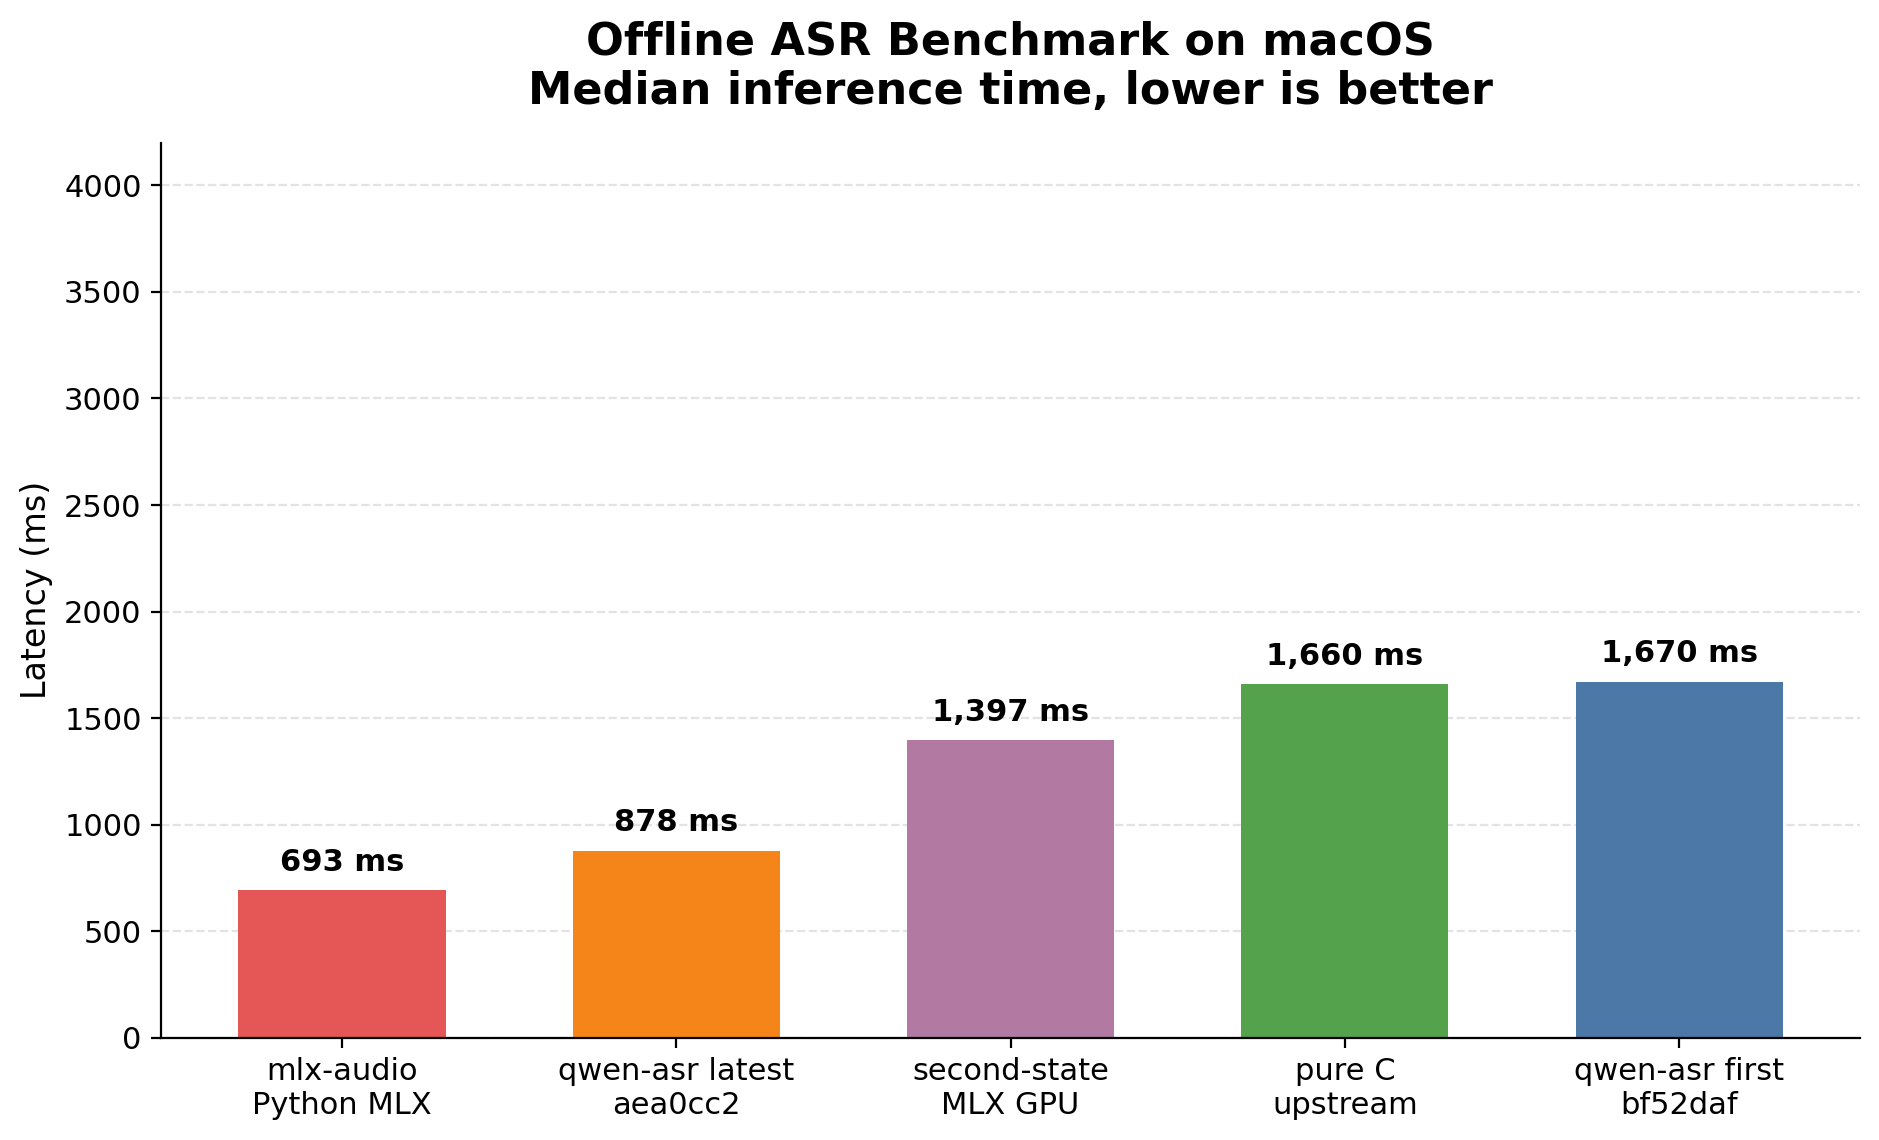
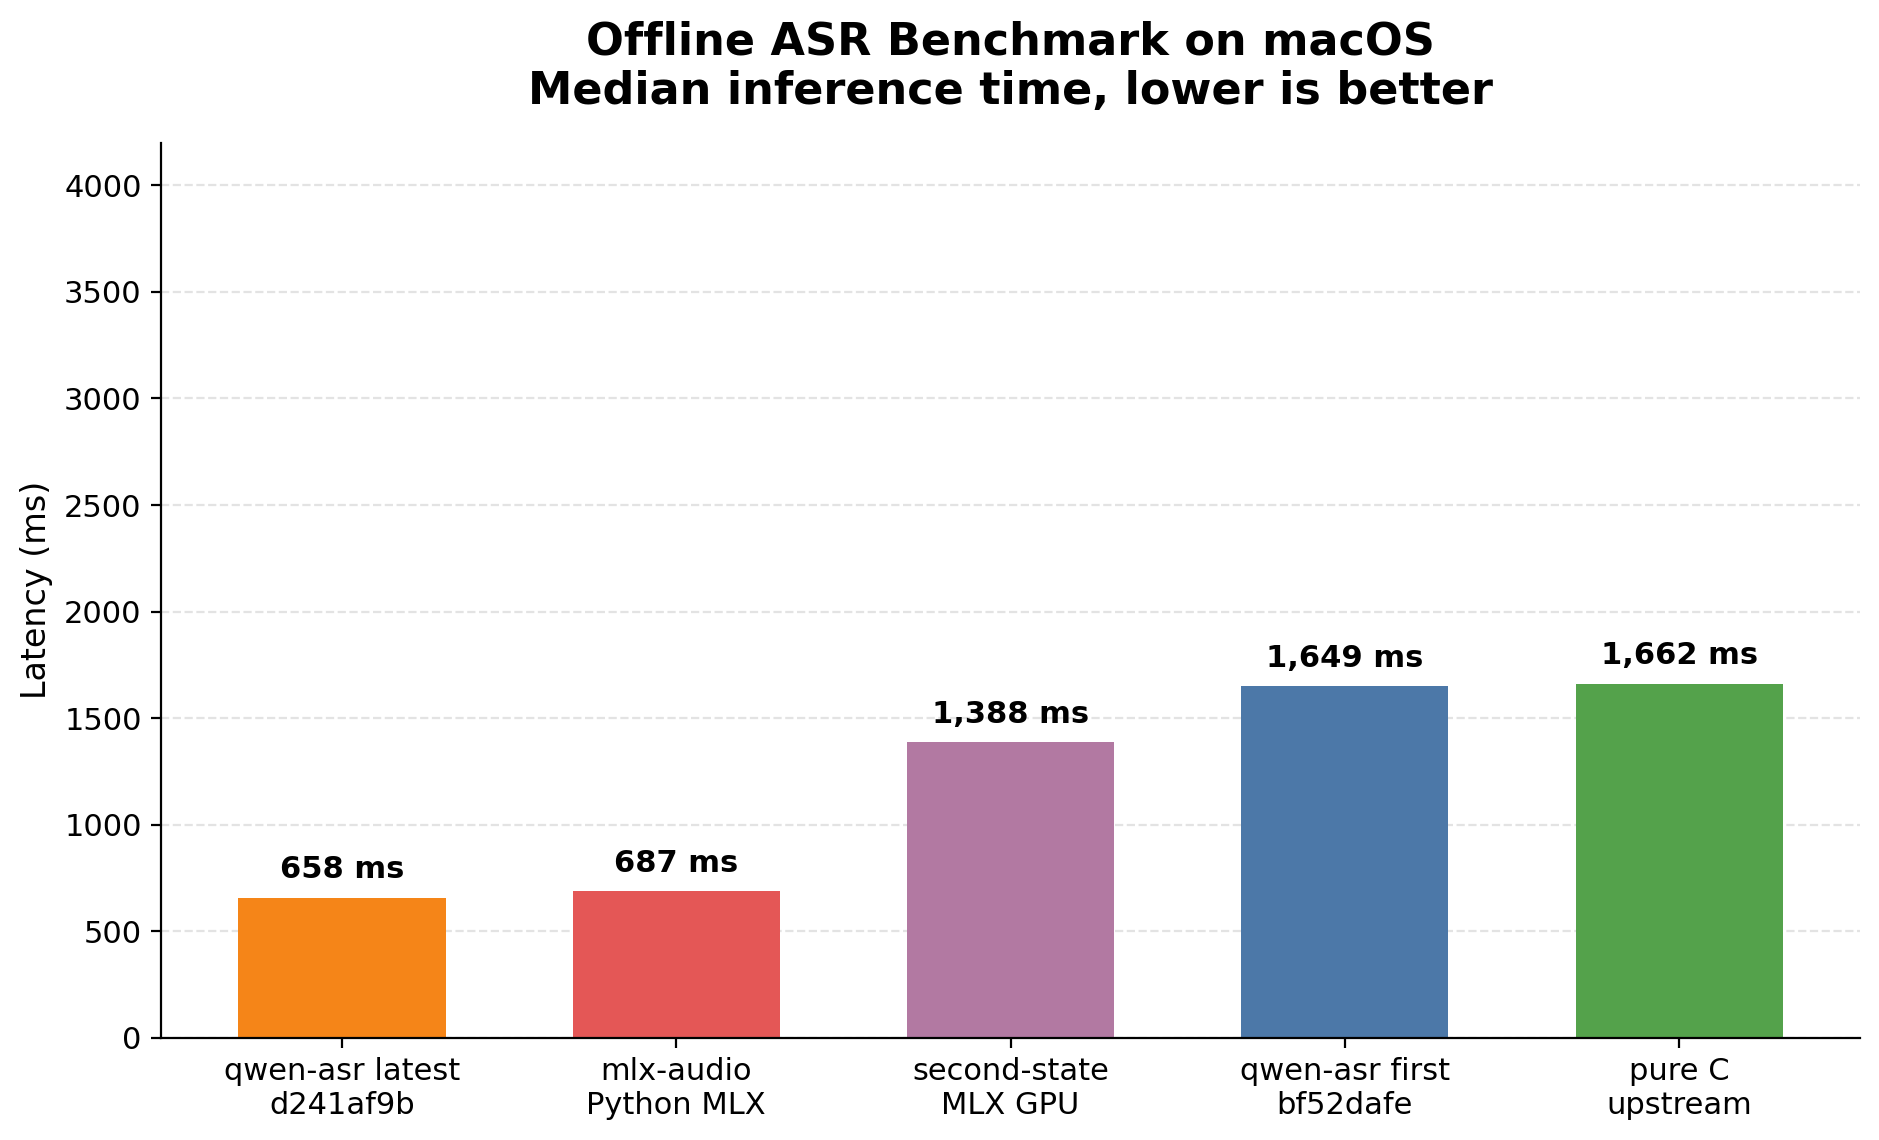
docs: refresh all benchmarks at d241af9b (round 11 results)
Re-ran every benchmark on the current HEAD and updated the docs and
charts to match:
- Dedicated speed bench (runs=10): offline 563 ms / 50.09x, segmented
  572 ms / 49.30x, streaming 544 ms / 51.89x; sample WER now 0.0000
  offline/segmented (exact reference match), 0.2973 streaming.
- LibriSpeech dev-clean-2 100-file offline: corpus WER 0.0357,
  macro 0.0388, CER 0.0142 (post-INT4 value, inside the 0.0358 gate).
- Full cross-implementation run (20260711T145612Z, runs=10, -t 15):
  qwen-asr is now the fastest implementation overall at 658 ms median,
  ahead of mlx-audio MLX GPU (687 ms), 2.1x faster than second-state
  MLX, and 2.5x faster than upstream C. Charts and report.md
  regenerated by bench/benchmark-all.sh.
- README performance section, comparison.md, results.md (incl. fresh
  kernel profile), and the optimizations overview header updated;
  stale a7470a2/aea0cc2 claims corrected or marked historical.

Claude-Session: https://claude.ai/code/session_01FWziBqwDQmdnUK1g3YgVqo

diff --git a/docs/benchmarks/comparison.md b/docs/benchmarks/comparison.md
@@ -31,15 +31,15 @@ Output: `bench/compare-results/<timestamp>/` with `report.md`, `summary.json`, c
 
 ## Current qwen-asr HEAD
 
-> Generated on: 2026-07-08
-> Commit: `aea0cc2`
+> Generated on: 2026-07-11
+> Commit: `d241af9b`
 > Runs: 10
 
 | Mode | Median inference ms | Mean ms | Best ms | Realtime factor |
 |---|---:|---:|---:|---:|
-| offline | 800 | 810.1 | 784 | 35.25× |
-| segmented | 794 | 799.1 | 783 | 35.52× |
-| streaming | 773 | 772.9 | 759 | 36.48× |
+| offline | 563 | 568.8 | 557 | 50.09× |
+| segmented | 572 | 570.4 | 559 | 49.30× |
+| streaming | 544 | 544.3 | 531 | 51.89× |
 
 Previous dedicated benchmark (`a7470a2`, full-transcript fix not yet applied in the saved run):
 
@@ -49,7 +49,7 @@ Previous dedicated benchmark (`a7470a2`, full-transcript fix not yet applied in 
 | segmented | 448 | 448.0 | 434 | 62.88× |
 | streaming | 496 | 496.0 | 480 | 56.91× |
 
-The current numbers are slower because the decoder now emits the full transcript. The saved `a7470a2` cross-implementation result stopped after 27 tokens (`WER=0.4324` on the speed sample); the current offline and segmented runs emit 46 tokens and score `WER=0.0270` on the same sample.
+The saved `a7470a2` result stopped after 27 tokens (`WER=0.4324` on the speed sample) and is kept only as historical context. As of Round 11 (`d241af9b`) the full 46-token transcript is produced *and* the offline median (563 ms) is faster than that truncated run — the current offline/segmented transcripts match the sample reference exactly (`WER=0.0000`).
 
 > Note: the `1d677db` fix removed the remaining punctuation/token-count early stop, so post-fix speed numbers are not directly comparable to earlier truncated rows.
 
@@ -57,31 +57,31 @@ See [`results.md`](./results.md) for the full speed-benchmark page.
 
 ## Latest Cross-Implementation Results
 
-> Generated on: 2026-07-08 from `bench/compare-results/20260708T055239Z/`
+> Generated on: 2026-07-11 from `bench/compare-results/20260711T145612Z/`
 > Runs per target: 10
 > Hardware: Apple M5 Pro, 15 cores, 48 GB RAM, macOS 26.4
-> Versions: upstream C `main`, second-state `v0.2.0` (`0226270`), mlx-audio `v0.4.4`
+> Versions: upstream C `main` (`b00b789`), second-state `v0.2.0` (`0226270`), mlx-audio `v0.4.5`
 > Results are sorted by median inference latency (fastest first).
 
 | Implementation | Commit / Version | Median inference ms | Mean ms | Best ms | RTF |
 |---|---:|---:|---:|---:|---:|
-| mlx-audio Python MLX | `0.4.4` | 693 | 753 | 679 | 40.66× |
-| qwen-asr (latest full comparison) | `aea0cc2` | 878 | 1,475 | 846 | 32.10× |
-| second-state MLX GPU | `0226270` (v0.2.0) | 1,397 | 1,515 | 1,377 | 20.16× |
-| pure C upstream | `b00b789` | 1,660 | 1,668 | 1,645 | 16.97× |
-| qwen-asr (first) | `bf52daf` | 1,670 | 1,783 | 1,656 | 16.88× |
+| qwen-asr (latest) | `d241af9b` | 658 | 668 | 629 | 42.86× |
+| mlx-audio Python MLX | `0.4.5` | 687 | 750 | 682 | 40.97× |
+| second-state MLX GPU | `0226270` (v0.2.0) | 1,388 | 1,466 | 1,378 | 20.29× |
+| qwen-asr (first) | `bf52daf` | 1,649 | 1,651 | 1,630 | 17.10× |
+| pure C upstream | `b00b789` | 1,662 | 1,661 | 1,637 | 16.94× |
 
-> **Note:** the cross-implementation run passes `--threads 15` to every implementation, while the dedicated speed benchmark uses the binary default. The dedicated benchmark reports `800 ms` / `35.25×` for qwen-asr latest offline; the full comparison reports `878 ms` / `32.10×`. Both current runs use `aea0cc2` and produce the full transcript.
+> **Note:** the cross-implementation run passes `--threads 15` to every implementation, while the dedicated speed benchmark uses the binary default (12 on this machine). The dedicated benchmark reports `563 ms` / `50.09×` for qwen-asr latest offline; the full comparison reports `658 ms` / `42.86×`. Both current runs use `d241af9b` and produce the full transcript.
 
 ### Wall-clock timing
 
 | Implementation | Commit / Version | Median wall-clock ms | Mean ms | Best ms | Wall-clock RTF |
 |---|---:|---:|---:|---:|---:|
-| mlx-audio Python MLX | `0.4.4` | 1,745 | 1,859 | 1,698 | 16.14× |
-| qwen-asr (latest full comparison) | `aea0cc2` | 1,175 | 1,774 | 1,106 | 24.01× |
-| second-state MLX GPU | `0226270` (v0.2.0) | 1,599 | 1,779 | 1,576 | 17.61× |
-| pure C upstream | `b00b789` | 1,938 | 1,950 | 1,922 | 14.53× |
-| qwen-asr (first) | `bf52daf` | 2,020 | 2,354 | 2,004 | 13.96× |
+| qwen-asr (latest) | `d241af9b` | 932 | 976 | 901 | 30.25× |
+| second-state MLX GPU | `0226270` (v0.2.0) | 1,593 | 1,736 | 1,579 | 17.67× |
+| mlx-audio Python MLX | `0.4.5` | 1,718 | 1,829 | 1,701 | 16.39× |
+| pure C upstream | `b00b789` | 1,941 | 1,942 | 1,915 | 14.51× |
+| qwen-asr (first) | `bf52daf` | 2,005 | 2,040 | 1,985 | 14.06× |
 
 <p float="left">
   <img src="charts/benchmark-unified-latency.png" width="48%" alt="Unified latency" />
@@ -90,17 +90,18 @@ See [`results.md`](./results.md) for the full speed-benchmark page.
 
 ### Findings
 
-- In the latest full cross-implementation run, qwen-asr `aea0cc2` is **1.90×** faster than the initial Rust port `bf52daf`.
-- In the latest full cross-implementation run, qwen-asr `aea0cc2` is **1.89×** faster than the upstream pure C implementation.
-- In the latest full cross-implementation run, qwen-asr `aea0cc2` is **1.59×** faster than second-state MLX GPU (v0.2.0) by inference latency.
-- In the latest full cross-implementation run, qwen-asr `aea0cc2` is **0.79×** as fast as mlx-audio Python MLX (v0.4.4) by inference latency.
+- In the latest full cross-implementation run, qwen-asr `d241af9b` is the **fastest implementation overall** — the first run where the pure-CPU Rust engine beats every GPU baseline on median inference latency.
+- qwen-asr `d241af9b` is **2.51×** faster than the initial Rust port `bf52daf`.
+- qwen-asr `d241af9b` is **2.53×** faster than the upstream pure C implementation.
+- qwen-asr `d241af9b` is **2.11×** faster than second-state MLX GPU (v0.2.0) by inference latency.
+- qwen-asr `d241af9b` is **1.04×** faster than mlx-audio Python MLX (v0.4.5) by median inference latency (658 vs 687 ms), and **1.84×** faster on wall clock (932 vs 1,718 ms).
 
 ## Why is pure CPU Rust competitive with GPU baselines?
 
 1. **Hand-optimized NEON kernels** — custom `vDSP`/`Accelerate`, hand-written `neon_dotprod` matmul, and fused fast-attention tuned for the 0.6B model and Apple Silicon cache hierarchy.
 2. **Zero framework overhead** — no tensor dispatch, memory pools, or FFI bridging; 100% Rust end-to-end.
 3. **Small-model overheads matter** — a 0.6B model does not always saturate the GPU enough to dominate CPU launch, synchronization, and framework overheads.
-4. **Result depends on implementation details** — in the latest run, qwen-asr CPU beats upstream C and second-state MLX, while `mlx-audio` is faster on median inference time.
+4. **Result depends on implementation details** — as of `d241af9b` (Round 11: dynamic work-stealing scheduling, 12-thread default, INT4 decode FFN weights), qwen-asr CPU beats every baseline in the comparison, including `mlx-audio` on the GPU.
 
 ## Perf-round2 vs. previous implementation
 

diff --git a/docs/benchmarks/results.md b/docs/benchmarks/results.md
@@ -35,37 +35,48 @@ Results are written to `bench/results/current/`.
 
 ### Latest Results
 
-> Generated on: 2026-07-08
-> Commit: `aea0cc2`
+> Generated on: 2026-07-11
+> Commit: `d241af9b`
 > Hardware: Apple M5 Pro, 48 GB RAM
-> Threads: default CLI thread policy
+> Threads: default CLI thread policy (12 on this machine since R11-G)
 
 | Mode | Median inference ms | Mean ms | Best ms | Realtime factor | WER (sample) |
 |---|---:|---:|---:|---:|---:|
-| offline | 800 | 810.1 | 784 | 35.25× | 0.0270 |
-| segmented | 794 | 799.1 | 783 | 35.52× | 0.0270 |
-| streaming | 773 | 772.9 | 759 | 36.48× | 0.2973 |
+| offline | 563 | 568.8 | 557 | 50.09× | 0.0000 |
+| segmented | 572 | 570.4 | 559 | 49.30× | 0.0000 |
+| streaming | 544 | 544.3 | 531 | 51.89× | 0.2973 |
 
 #### Wall-clock timing
 
 | Mode | Median wall ms | Mean ms | Best ms | Wall realtime factor |
 |---|---:|---:|---:|---:|
-| offline | 1052.4 | 1108.4 | 1038.9 | 26.80× |
-| segmented | 1045.6 | 1052.9 | 1033.7 | 26.97× |
-| streaming | 1025.6 | 1025.2 | 1012.4 | 27.50× |
+| offline | 828.5 | 900.0 | 822.0 | 34.04× |
+| segmented | 839.0 | 838.0 | 822.6 | 33.61× |
+| streaming | 810.5 | 810.8 | 799.0 | 34.79× |
 
 #### Note on sample WER
 
-Offline and segmented now emit the full 46-token transcript for the bundled 28.2 s clip (`WER=0.0270`). Earlier speed rows around `437-656 ms` used truncating paths, including a punctuation/token-count early stop or long-audio cap, and are not comparable as full-transcript results. Streaming still uses a lower-latency partial path on this sample (`WER=0.2973`).
+Offline and segmented emit the full 46-token transcript for the bundled 28.2 s clip; since the Round 11 INT4 decode-FFN change (`6ed39526`) it matches the reference exactly (`WER=0.0000` — the prior `0.0270` was one spurious comma). Earlier speed rows around `437-656 ms` used truncating paths, including a punctuation/token-count early stop or long-audio cap, and are not comparable as full-transcript results. Streaming still uses a lower-latency partial path on this sample (`WER=0.2973`).
 
 #### Kernel profile (offline)
 
-When run with `--profile`, the offline run reports per-kernel timings. The latest profile will be inserted here after regeneration.
+Per-kernel timings from a single `--profile` offline run at `d241af9b` (inference buckets only; load/audio buckets excluded):
+
+| Kernel | Total ms | Calls |
+|---|---:|---:|
+| sgemm | 231.8 | 335 |
+| bf16_matvec (incl. INT8/INT4 decode matvecs) | 170.0 | 196 |
+| conv2d_op | 63.4 | 87 |
+| attention_causal | 26.7 | 28 |
+| attention_bidir | 15.3 | 18 |
+| gelu | 6.7 | 106 |
+| rms_norm | 5.1 | 2678 |
 
 ### Historical context
 
-- Initial Rust port (`bf52daf`): 1,670 ms offline / 16.88× RTF (latest cross-implementation run, `--threads 15`)
-- Current implementation (`aea0cc2`): 800 ms offline / 35.25× RTF (dedicated speed benchmark), 878 ms offline / 32.10× RTF (latest cross-implementation run, `--threads 15`)
+- Initial Rust port (`bf52daf`): 1,670 ms offline / 16.88× RTF (cross-implementation run, `--threads 15`)
+- Round 10 (`aea0cc2`): 800 ms offline / 35.25× RTF (dedicated speed benchmark)
+- Round 11 (`d241af9b`): 563 ms offline / 50.09× RTF — dynamic work-stealing scheduling, 12-thread default, INT4 decode FFN weights (see `experiments.md` Round 11)
 
 See [`comparison.md`](./comparison.md) for the latest cross-implementation numbers and [`experiments.md`](../research/experiments.md) for the full optimization diaries.
 
@@ -126,27 +137,28 @@ python3 librispeech-wer-bench/librispeech_wer.py \
 
 ### Latest Results
 
-> Generated on: 2026-07-07
+> Generated on: 2026-07-11
+> Commit: `d241af9b`
 > Dataset: LibriSpeech `dev-clean-2`
 > Items evaluated: 100
 > Mode: offline
-> Artifact: `bench/wer-results/20260707T144417Z/summary.json`
-
-The later `aea0cc2` long-audio parallel decode work recorded this 100-file gate as unchanged in `docs/research/experiments.md`.
+> Artifact: `librispeech-wer-bench/results-100/current-offline-100/summary.json`
 
 | Metric | Value |
 |---|---:|
 | Corpus WER | 0.0357 |
-| Macro WER | 0.0397 |
-| Corpus CER | 0.0122 |
-| Macro CER | 0.0133 |
+| Macro WER | 0.0388 |
+| Corpus CER | 0.0142 |
+| Macro CER | 0.0147 |
 | Failed utterances | 0 / 100 |
 
 ### Historical context
 
 - Early baseline (`step0-current`, `12663c5`): corpus WER 0.1101
 - After WER recovery tuning: corpus WER 0.0387
-- Latest target: keep corpus WER ≤ 0.04 while improving speed
+- Rounds 10 and 11 pre-INT4 (`963a4041`): corpus WER 0.0350
+- Round 11 INT4 decode FFN (`6ed39526`): corpus WER 0.0357 — the accepted quantization cost, inside the ≤ 0.0358 gate (see `experiments.md` R11-I)
+- Standing target: keep corpus WER ≤ 0.04 while improving speed
 
 See [`experiments.md`](../research/experiments.md) for the full tuning diary.
 

diff --git a/report.md b/report.md
@@ -3,8 +3,8 @@
 ## Methodology
 
 - Offline benchmark on the same input WAV and model across five implementations.
-- qwen-asr first: `bf52daf`.
-- qwen-asr latest: `aea0cc2`.
+- qwen-asr first: `bf52dafe`.
+- qwen-asr latest: `d241af9b`.
 - Upstream C: `antirez/qwen-asr`.
 - GPU baselines: `second-state/qwen3_asr_rs` MLX and `mlx-audio` Python MLX.
 - Implementations are benchmarked sequentially, not in parallel; each round is a standalone process invocation.
@@ -31,22 +31,22 @@
 
 | Implementation | Commit | Median inference ms | Mean ms | Best ms | RTF |
 |---|---:|---:|---:|---:|---:|
-| mlx-audio Python MLX | `0.4.4` | `693` | `753` | `679` | `40.66x` |
-| qwen-asr (latest) | `aea0cc2` | `878` | `1,475` | `846` | `32.10x` |
-| second-state MLX GPU | `0226270` | `1,397` | `1,515` | `1,377` | `20.16x` |
-| pure C upstream | `b00b789` | `1,660` | `1,668` | `1,645` | `16.97x` |
-| qwen-asr (first) | `bf52daf` | `1,670` | `1,783` | `1,656` | `16.88x` |
+| qwen-asr (latest) | `d241af9b` | `658` | `668` | `629` | `42.86x` |
+| mlx-audio Python MLX | `0.4.5` | `687` | `750` | `682` | `40.97x` |
+| second-state MLX GPU | `0226270` | `1,388` | `1,466` | `1,378` | `20.29x` |
+| qwen-asr (first) | `bf52dafe` | `1,649` | `1,651` | `1,630` | `17.10x` |
+| pure C upstream | `b00b789` | `1,662` | `1,661` | `1,637` | `16.94x` |
 
 <details>
 <summary>Wall-clock timing</summary>
 
 | Implementation | Commit | Median wall-clock ms | Mean ms | Best ms | Wall-clock RTF |
 |---|---:|---:|---:|---:|---:|
-| mlx-audio Python MLX | `0.4.4` | `1,745` | `1,859` | `1,698` | `16.14x` |
-| qwen-asr (latest) | `aea0cc2` | `1,175` | `1,774` | `1,106` | `24.01x` |
-| second-state MLX GPU | `0226270` | `1,599` | `1,779` | `1,576` | `17.61x` |
-| pure C upstream | `b00b789` | `1,938` | `1,950` | `1,922` | `14.53x` |
-| qwen-asr (first) | `bf52daf` | `2,020` | `2,354` | `2,004` | `13.96x` |
+| qwen-asr (latest) | `d241af9b` | `932` | `976` | `901` | `30.25x` |
+| mlx-audio Python MLX | `0.4.5` | `1,718` | `1,829` | `1,701` | `16.39x` |
+| second-state MLX GPU | `0226270` | `1,593` | `1,736` | `1,579` | `17.67x` |
+| qwen-asr (first) | `bf52dafe` | `2,005` | `2,040` | `1,985` | `14.06x` |
+| pure C upstream | `b00b789` | `1,941` | `1,942` | `1,915` | `14.51x` |
 
 </details>
 
@@ -56,8 +56,8 @@
 
 ## Findings
 
-- qwen-asr latest `aea0cc2` is `1.90x` the speed of qwen-asr first `bf52daf`.
-- qwen-asr latest `aea0cc2` is `1.89x` faster than the upstream pure C implementation.
-- qwen-asr latest `aea0cc2` is `1.59x` faster than second-state MLX GPU by inference latency.
-- qwen-asr latest `aea0cc2` is `0.79x` faster than mlx-audio Python MLX by inference latency.
+- qwen-asr latest `d241af9b` is `2.51x` the speed of qwen-asr first `bf52dafe`.
+- qwen-asr latest `d241af9b` is `2.53x` faster than the upstream pure C implementation.
+- qwen-asr latest `d241af9b` is `2.11x` faster than second-state MLX GPU by inference latency.
+- qwen-asr latest `d241af9b` is `1.04x` faster than mlx-audio Python MLX by inference latency.
 

diff --git a/README.md b/README.md
@@ -8,22 +8,22 @@ Supports 0.6B and 1.7B models with offline, segmented, streaming, live capture, 
 
 ## Performance
 
-On an Apple M5 Pro, qwen-asr transcribes the standard 28.2-second benchmark clip in **800 ms** in the dedicated local benchmark, about **35× faster than realtime**, while producing the full transcript. In the latest full cross-implementation comparison, qwen-asr is faster than the upstream C implementation and the second-state MLX GPU baseline; `mlx-audio` is faster on median inference time in this run.
+On an Apple M5 Pro, qwen-asr transcribes the standard 28.2-second benchmark clip in **563 ms** in the dedicated local benchmark — about **50× faster than realtime** — while producing the full transcript. In the latest full cross-implementation comparison, the pure-CPU qwen-asr is the **fastest implementation overall**, ahead of both GPU baselines (`mlx-audio` MLX and second-state MLX) and 2.5× faster than the upstream C implementation.
 
 | Implementation | Median inference | Realtime factor |
 |---|---:|---:|
-| mlx-audio Python MLX | 693 ms | 40.66× |
-| qwen-asr (latest) | 878 ms | 32.10× |
-| second-state/qwen3_asr_rs MLX GPU | 1,397 ms | 20.16× |
-| pure C upstream | 1,660 ms | 16.97× |
-| qwen-asr (first Rust port) | 1,670 ms | 16.88× |
+| **qwen-asr (latest)** | **658 ms** | **42.86×** |
+| mlx-audio Python MLX | 687 ms | 40.97× |
+| second-state/qwen3_asr_rs MLX GPU | 1,388 ms | 20.29× |
+| qwen-asr (first Rust port) | 1,649 ms | 17.10× |
+| pure C upstream | 1,662 ms | 16.94× |
 
 <p float="left">
   <img src="docs/benchmarks/charts/benchmark-unified-latency.png" width="48%" alt="Latency comparison" />
   <img src="docs/benchmarks/charts/benchmark-unified-rtf.png" width="48%" alt="Realtime factor comparison" />
 </p>
 
-> Benchmarked on the same 28.2 s sample with 10 runs each. The table shows the latest full cross-implementation run (`bench/compare-results/20260708T055239Z`) at qwen-asr `aea0cc2`. Earlier `a7470a2` comparison rows were faster because they stopped after 27 tokens and did not produce the full transcript. See [`docs/benchmarks/comparison.md`](docs/benchmarks/comparison.md) for full details and reproduction steps.
+> Benchmarked on the same 28.2 s sample with 10 runs each. The table shows the latest full cross-implementation run (`bench/compare-results/20260711T145612Z`) at qwen-asr `d241af9b` with `--threads 15` for every implementation; the dedicated speed benchmark (binary default threads) reports 563 ms / 50.09×. All rows produce the full transcript. See [`docs/benchmarks/comparison.md`](docs/benchmarks/comparison.md) for full details and reproduction steps.
 
 ## Documentation
 

diff --git a/docs/optimizations/overview.md b/docs/optimizations/overview.md
@@ -1,6 +1,6 @@
 # QwenASR Performance Optimizations
 
-This document catalogs the performance optimizations implemented in the pure-Rust QwenASR CPU inference engine. Current HEAD reaches 64+× realtime on Apple M5 for offline transcription of the 28.2 s benchmark sample.
+This document catalogs the performance optimizations implemented in the pure-Rust QwenASR CPU inference engine. Current HEAD (`d241af9b`) reaches 50× realtime on Apple M5 Pro for full-transcript offline transcription of the 28.2 s benchmark sample (563 ms median inference) — the fastest implementation in the cross-comparison, ahead of both MLX GPU baselines.
 
 ## 1. Memory Traffic & Allocation Reduction
 
